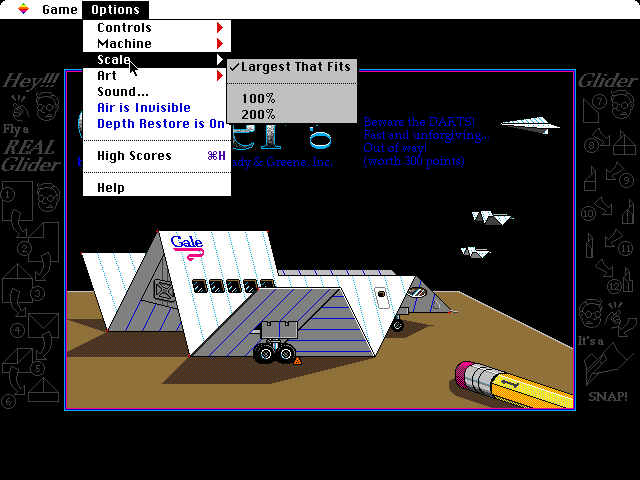
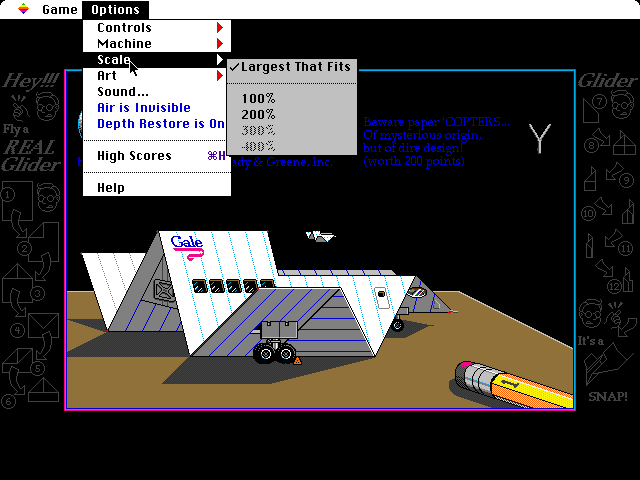
Dim the scales that do not fit; Windows art out of scope
Options > Scale offers up to 400% of the page's size and dims those
that do not fit the window, as Art dims art of the other kind. The
Windows look ends with its colors: Glider/WIN's art, behaviors and
interface are out of scope.

Claude-Session: https://claude.ai/code/session_01HKBKVT9Yis2YchroTKRJiy

diff --git a/src/glider/Additions.ts b/src/glider/Additions.ts
@@ -67,8 +67,8 @@ export interface AdditionsHost {
 	setDisplay(display: Display): void;
 	/** Once the program quits, starts it again on a display; null to go to the desktop, as Quit does. */
 	restartOn(display: Display | null): void;
-	/** The scales that fit the page: whole device pixels to a Mac pixel, and their names. */
-	scales(): { factor: number; name: string }[];
+	/** The scales the page offers, whole device pixels to a Mac pixel: their names, and whether they fit the window now. */
+	scales(): { factor: number; name: string; fits: boolean }[];
 	/** The chosen scale's factor; 0 for the largest that fits. */
 	readonly scale: number;
 	setScale(factor: number): void;
@@ -205,6 +205,12 @@ export function RefreshScales(): void {
 	if (scales.length > 0) {
 		AppendMenu(menu, scales.map((s) => s.name).join(';'));
 	}
+	// Those that do not fit the window are dimmed, as art of the other kind is.
+	scales.forEach((s, k) => {
+		if (!s.fits) {
+			DisableItem(menu, k + 3);
+		}
+	});
 	colorItems(menu);
 	checkChoices();
 }

diff --git a/src/platform/browser/main.ts b/src/platform/browser/main.ts
@@ -158,9 +158,11 @@ async function start(): Promise<void> {
 			restartOn = d;
 		},
 		scales: () => {
+			// Up to 400% of the page's own size, or further if more fits; the larger ones may not fit.
 			const ratio = window.devicePixelRatio || 1;
 			const fit = fitFactor(machine.width, machine.height);
-			return Array.from({ length: fit }, (_, k) => ({ factor: k + 1, name: `${Math.round(((k + 1) / ratio) * 100)}%` }));
+			const most = Math.max(fit, Math.round(4 * ratio));
+			return Array.from({ length: most }, (_, k) => ({ factor: k + 1, name: `${Math.round(((k + 1) / ratio) * 100)}%`, fits: k + 1 <= fit }));
 		},
 		get scale() {
 			return scaleChoice;

diff --git a/PORT.md b/PORT.md
@@ -249,14 +249,15 @@ do {
   - [x] The desktop, after System 6.0.8's Finder (measured in the oracle), with `startup` and Quit.
   - [x] The browser's operations in the desktop's menus: importing houses, exporting the player's files, resetting preferences and scores.
   - [x] The README: what the port is and is not, credits and licenses, and the precedent below.
-- [ ] **11. Windows look:** palettes, then art.
+- [x] **11. Windows look:** palettes.
   - [x] Glider for Windows' colors on the Mac II's screen, with a 16-color driver and in 256 colors (`src/platform/WindowsColors.ts`), from the Machine submenu.
+  - Out of scope: Glider/WIN's art, its own behaviors (the planes' banners, flight recording, relinking houses), and its Windows 3.1 interface. Its art is the Mac's 4.04 sheet with new sprites for those behaviors (docs/versions.md), so without them it brings little the colors do not, and they would be new code from a release with no source, with a second user interface around them.
 - [ ] **12. Room Editor.**
   - Started from the desktop, or with `?startup=room-editor`.
 - [ ] **13. Additions** (decision 14), once the port is complete:
   - [x] Switching machines and palettes (Mac Plus, Mac II in color or black and white, the Windows palettes) from a submenu of the Options menu, built like Glider's own submenu.
     A machine change restarts the program, as changing the Mac would; a palette change does not.
-  - [x] Scaling (integer factors, and the largest that fits) from another Options submenu.
+  - [x] Scaling (integer factors, and the largest that fits) from another Options submenu; up to 400% of the page's size, those that do not fit the window dimmed, as the Art submenu dims art of the other kind.
   - [x] Switching art from an Options submenu: the art files on the volume (the game's, and imported ones such as More Glider's Improved Art), color and black and white in one menu, those of the other kind dimmed.
     Glider 4.05 opens its art by the name in its preferences, so a change restarts it.
   - Phones, as a second tier: a virtual mouse on the touch screen is little code, but making it pleasant to steer with is a sidequest of its own.

diff --git a/docs/images/2026-10-20-additions/README.md b/docs/images/2026-10-20-additions/README.md
@@ -8,7 +8,7 @@ All pictures are of the port on a Mac II, at the Mac's own pixels.
 
 ![The Machine submenu](01-machine-submenu-mac-ii.png)
 
-**02.** Options > Scale: the largest whole number of screen pixels per Mac pixel that fits the window, or a smaller one, named as a percentage of the page's size.
+**02.** Options > Scale: the largest whole number of screen pixels per Mac pixel that fits the window, or another, named as a percentage of the page's size, up to 400%; those that do not fit the window now are dimmed, as the Art submenu dims art of the other kind.
 
 ![The Scale submenu](02-scale-submenu-mac-ii.png)
 
